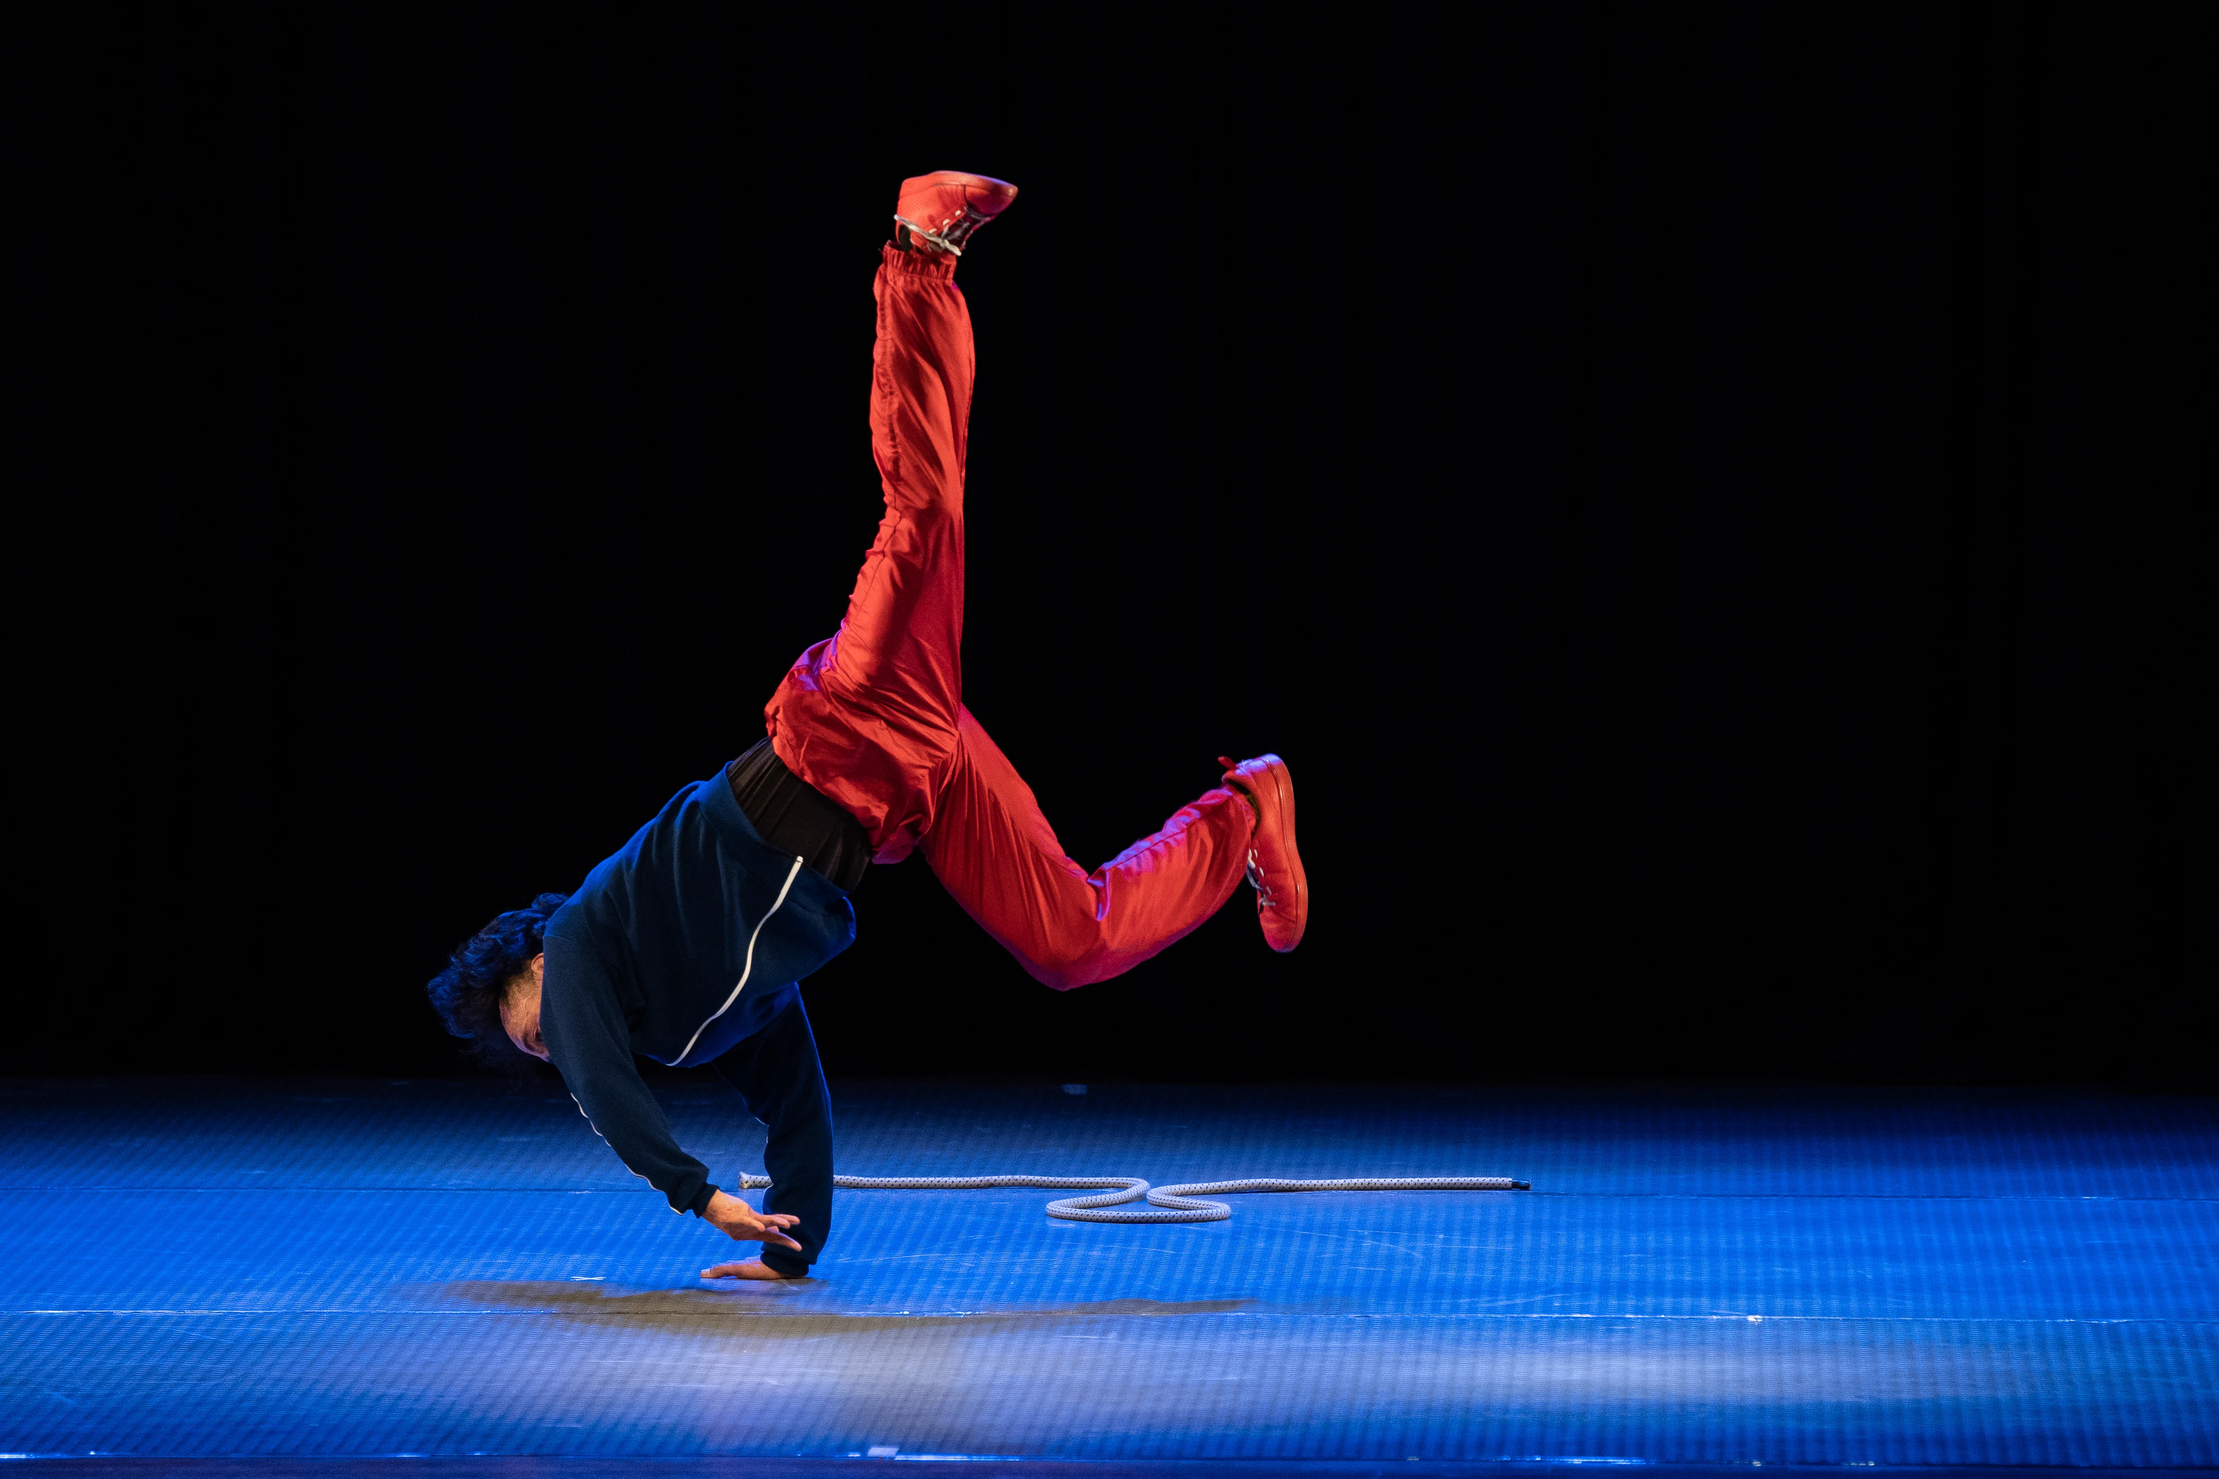
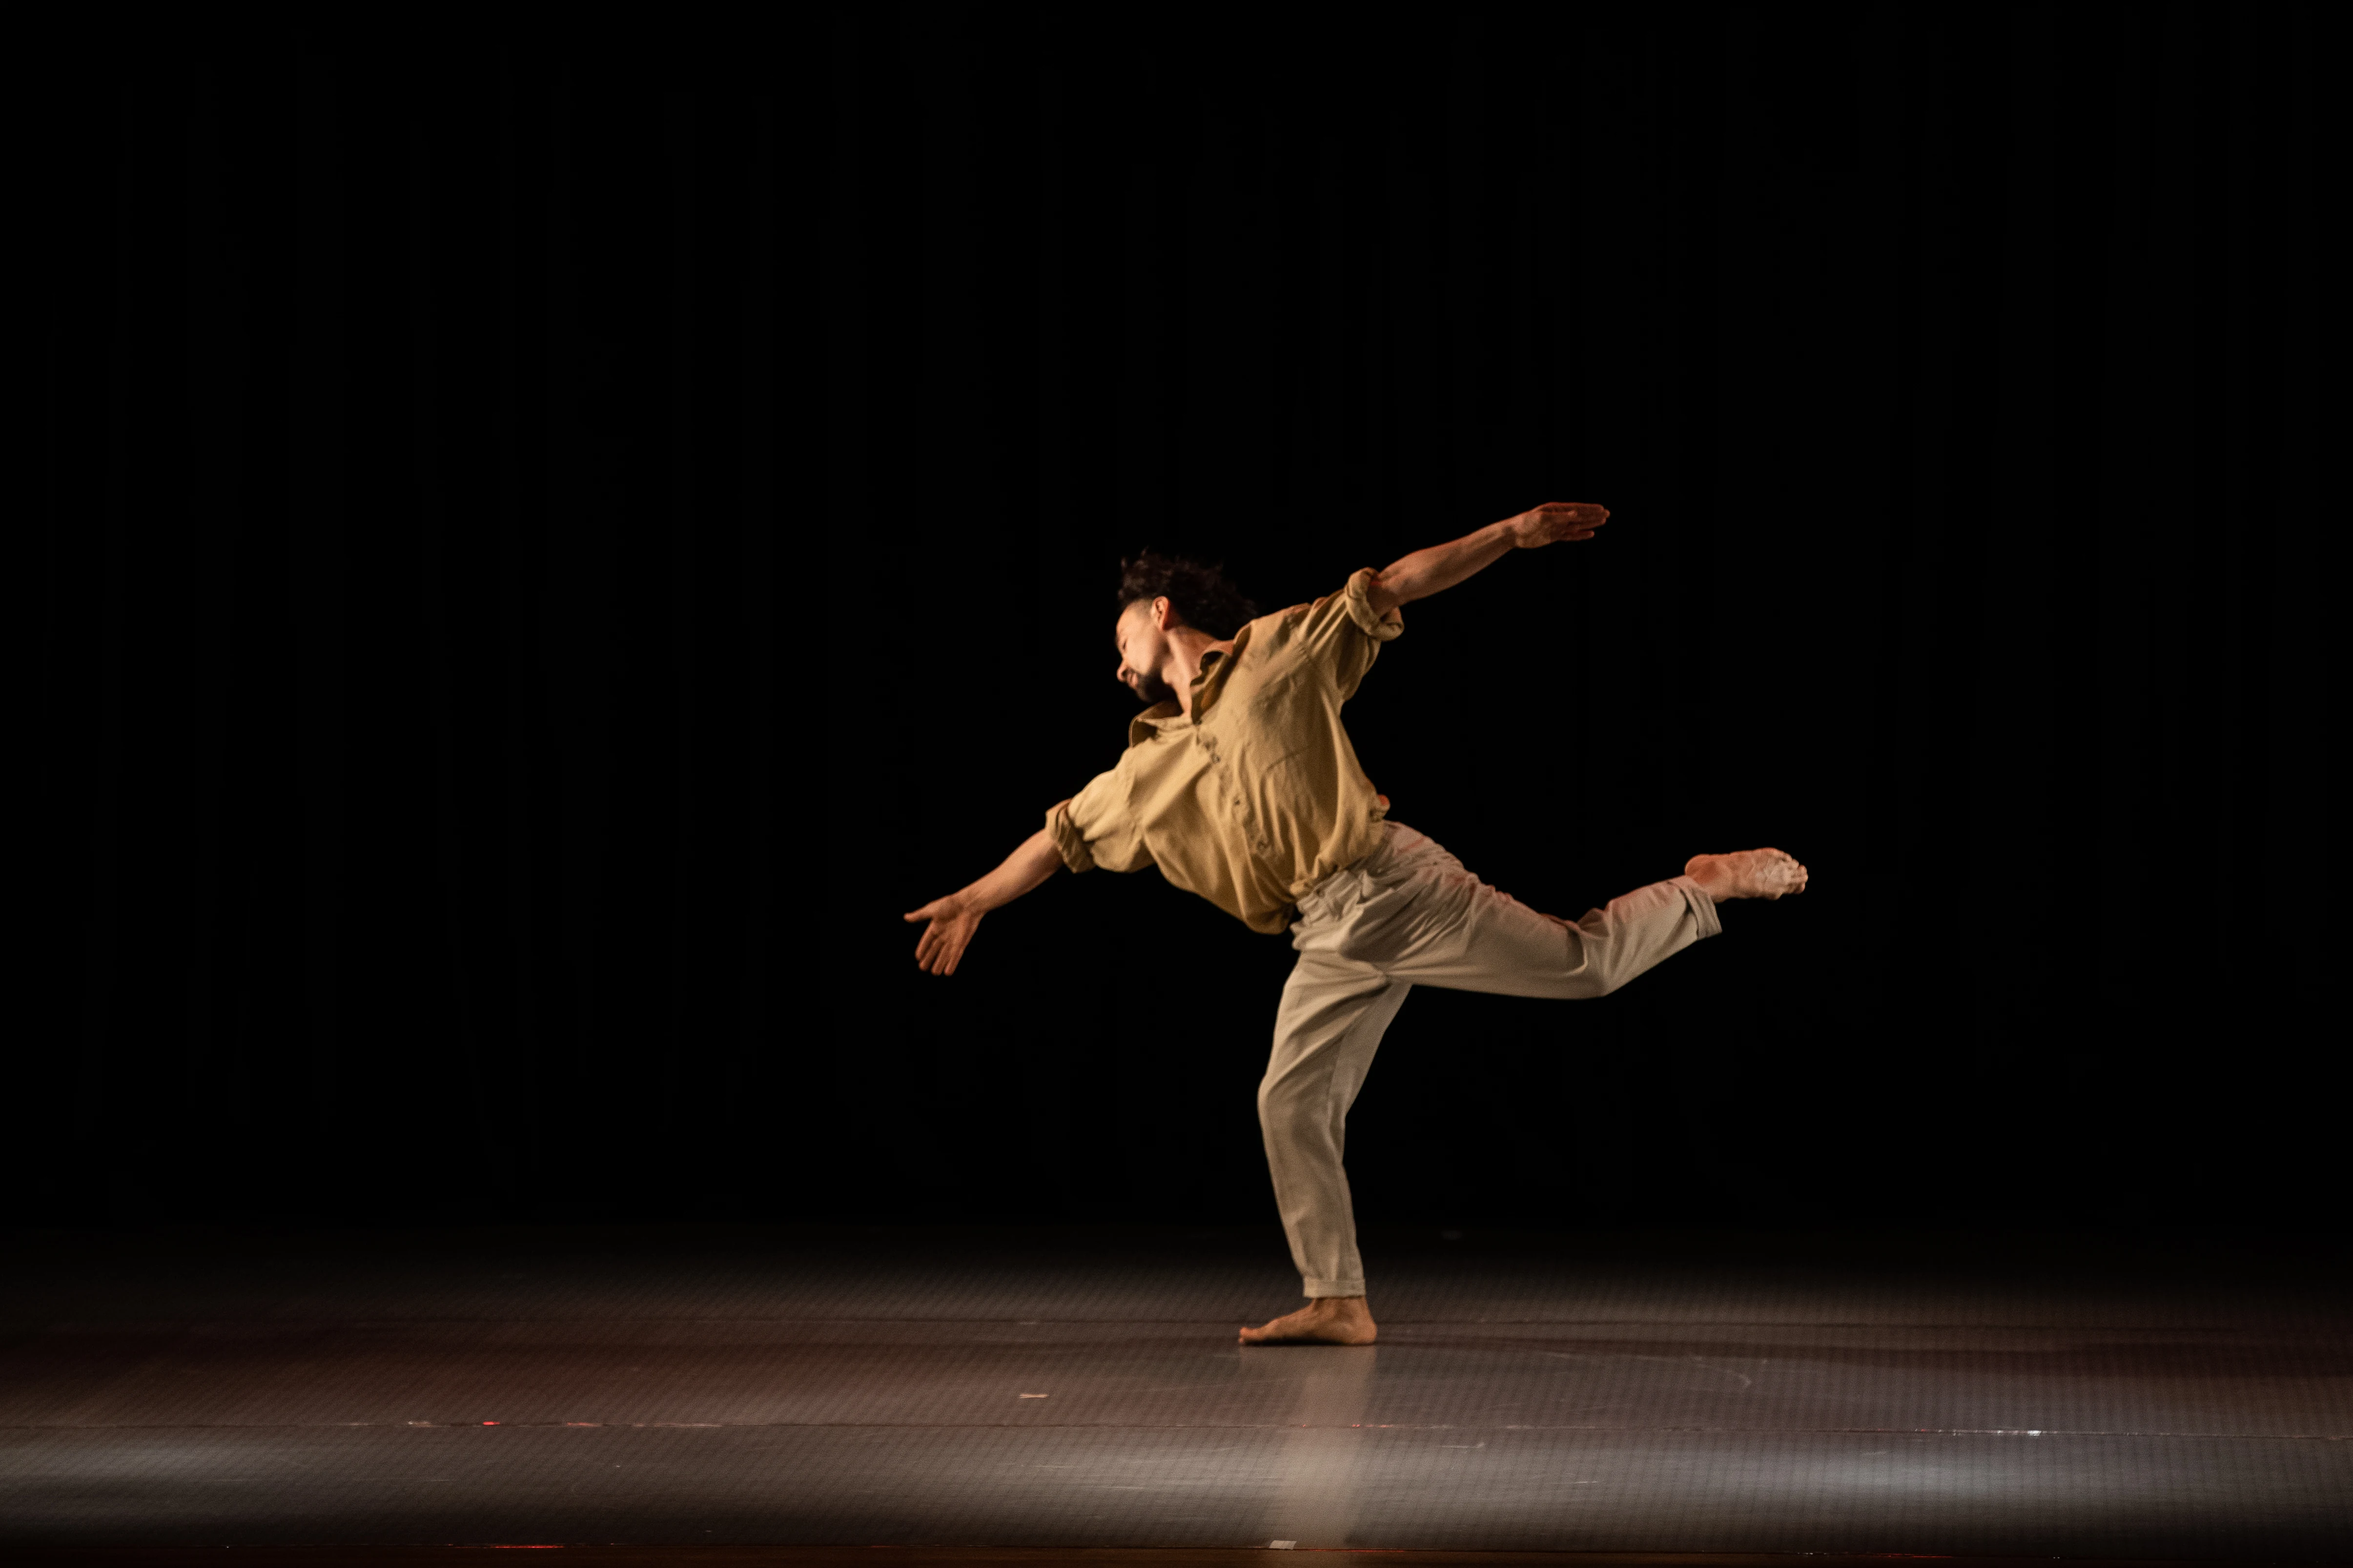
Hero: nueva foto breakdancer + object-position 60% 45%; gallery-03 reemplazada

diff --git a/components/hero.tsx b/components/hero.tsx
@@ -27,7 +27,7 @@ export default function Hero() {
             alt=""
             fill
             className="object-cover"
-            style={{ objectPosition: "75% 40%" }}
+            style={{ objectPosition: "60% 45%" }}
             priority
           />
 
